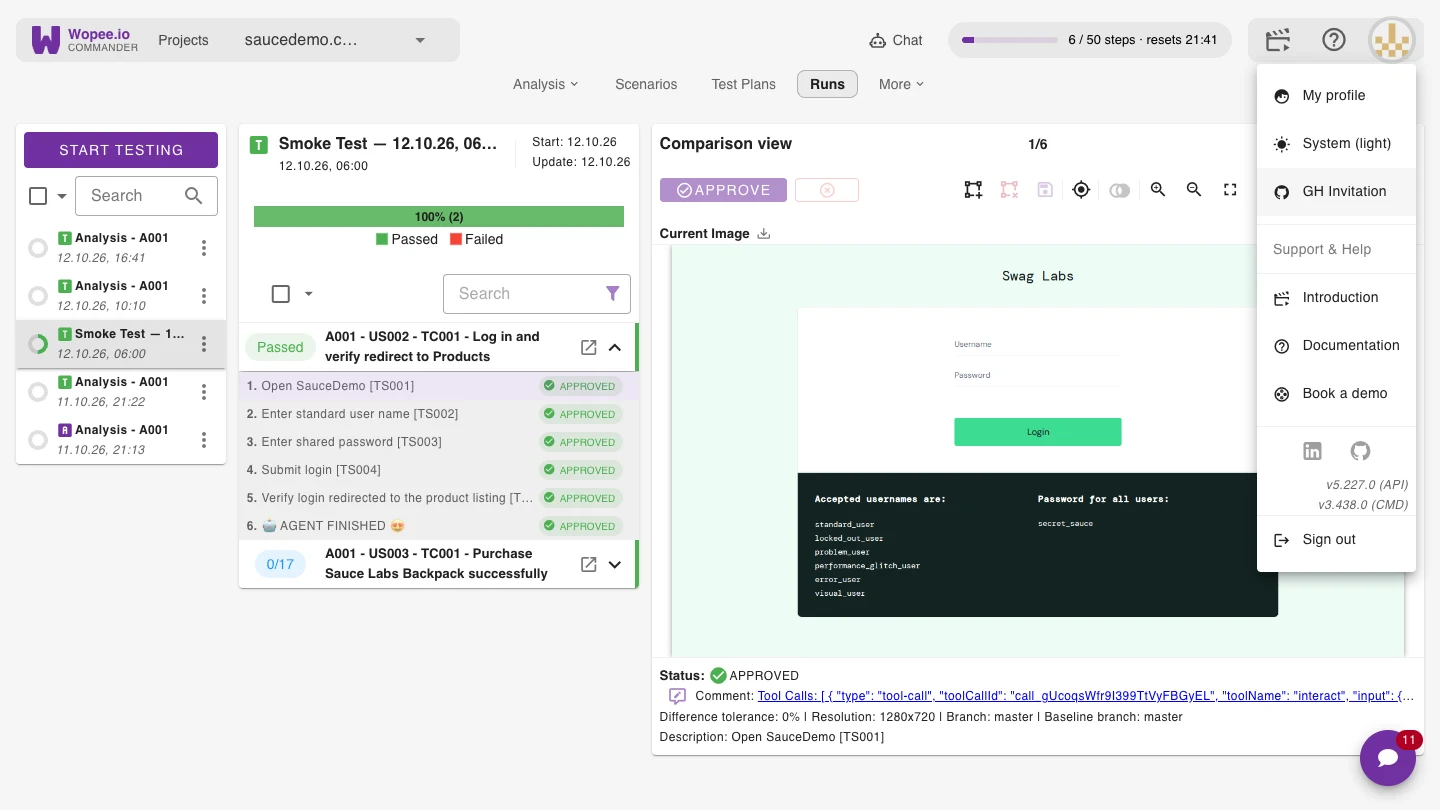
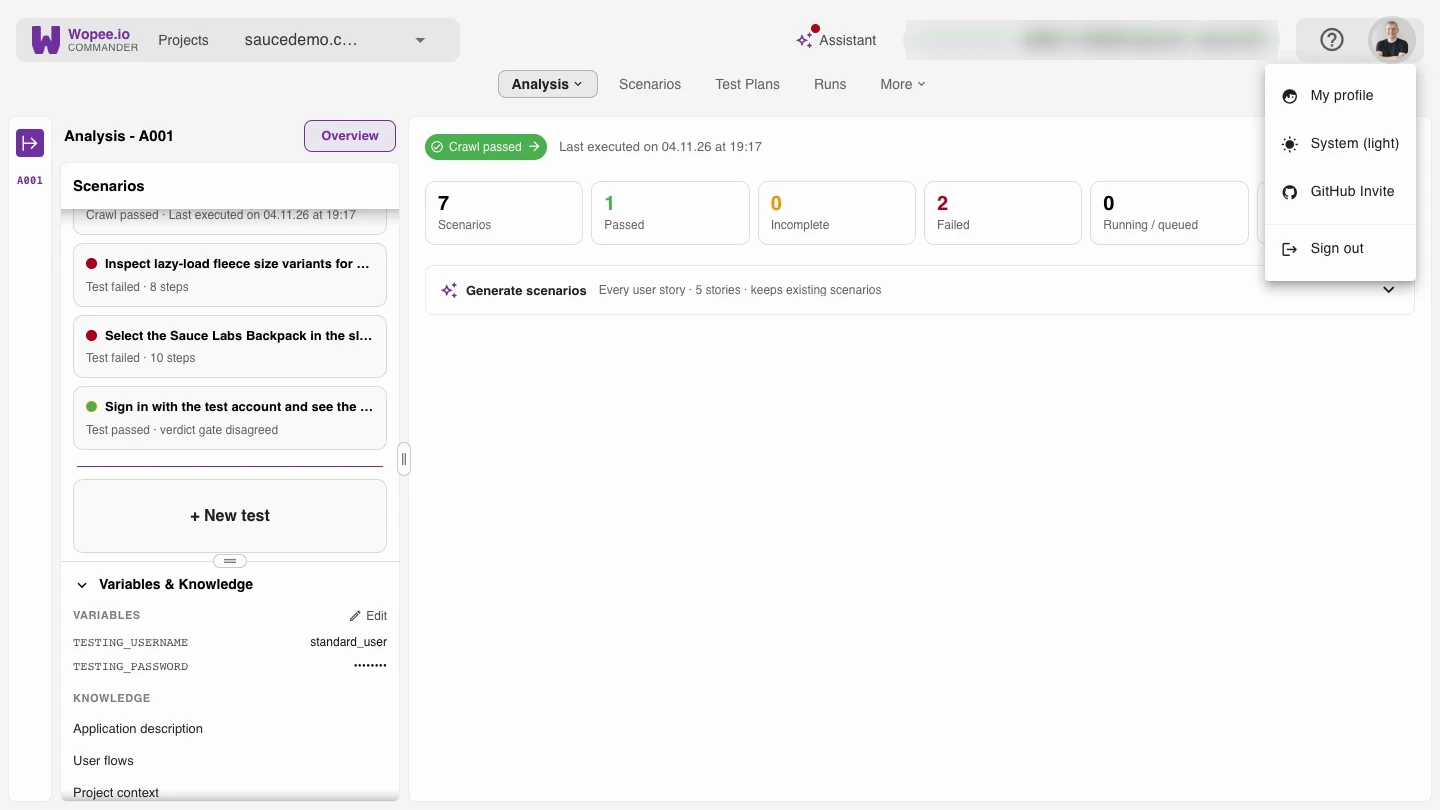
Quickstart: test account in Environment Variables, up to 4 tests auto-run, no placeholder IPs (#71)

diff --git a/docs/ai-agent.md b/docs/ai-agent.md
@@ -19,7 +19,7 @@ You land on the **Projects** page. Every app you test lives here as one project.
 
 1. Click **NEW PROJECT**.
 2. Paste the URL of your app, or pick a demo (**E-shop demo**, **Website demo** or **Banking demo**). The demos come with test instructions already filled in.
-3. Under **Test instructions**, describe in plain English what matters to you, including any test credentials. For example: _Log in with the test account, add an item to the cart, complete the purchase, and verify the "Thank you" message._ You can leave it empty and let the agent decide.
+3. Under **Test instructions**, describe in plain English what matters to you. For example: _Add an item to the cart, complete the purchase, and verify the "Thank you" message._ You can leave it empty and let the agent decide. Do not type passwords here: a test account goes in Environment Variables (see below).
 4. Click **Create project and generate tests**.
 
 ![New project dialog](img/getting-started/2026-new-project.webp){ width="1440" height="810" }
@@ -28,19 +28,23 @@ You land on the **Projects** page. Every app you test lives here as one project.
 
     The test framework (Playwright) is fixed once the project exists. Switch off **Explore the app and generate tests** to create an empty project and add your own tests first.
 
+!!! tip "Your app needs a login?"
+
+    Give the agent a test account: open **More** › **Settings** › **Environment Variables** and add `TESTING_USERNAME` and `TESTING_PASSWORD`. The agent signs in with them, and your tests use them as `${TESTING_USERNAME}` and `${TESTING_PASSWORD}`. The first Analysis starts without them, so if it stopped at your login, add the account and re-run the tests it generated before you start a new Analysis: on the free plan only your first Analysis is free of the step limit, and an Analysis uses more steps than a test run. See [Test an app behind a login](https://docs.wopee.io/first-green-test/test-behind-a-login/).
+
 ## 3. Accept the GitHub invitation
 
-Every project gets its own GitHub repository. To open it, accept the invitation: open the menu under your avatar, click **GH Invitation**, and click **Join** on GitHub.
+Every project gets its own GitHub repository, and GitHub invites you to the organization that holds it. Accept the invitation from GitHub's e-mail, or open the menu under your avatar, click **GitHub Invite**, and click **Join** on GitHub.
 
-![GH Invitation in the account menu](img/getting-started/2026-gh-invitation.webp){ width="1440" height="810" loading="lazy" }
+![GitHub Invite in the account menu](img/getting-started/2026-gh-invitation.webp){ width="1440" height="810" loading="lazy" }
 
 ## 4. Watch the agent explore
 
-The first Analysis starts right away. You see a live view of the agent's browser: it opens your app, logs in, clicks through the pages and checks what it sees. From what it saw, it writes:
+The first Analysis starts right away. You see a live view of the agent's browser: it opens your app, clicks through the pages and checks what it sees. From what it saw, it writes:
 
 - an **application description**,
 - **user flows**, written as user stories,
-- **test scenarios** for those flows, and runs every one of them, so you start with real results.
+- **test scenarios** for those flows, and runs up to 4 of them, one after another, so you start with real results. The others wait under **NOT RUN** in the scenario list; run one with its ▶ button.
 
 All of them are under **Variables & Knowledge** and in the scenario list. Edit any of them, or add instructions and regenerate.
 

diff --git a/docs/concepts/analysis-process.md b/docs/concepts/analysis-process.md
@@ -4,6 +4,10 @@ description: How Wopee.io analyzes your web app to generate automated tests. Con
 
 # Analysis Process
 
+!!! note "Screenshots from 2025"
+
+    The screenshots on this page show the 2025 analysis screen, and Commander looks different today. For the current first Analysis, see [Getting started](../ai-agent.md). A test account now goes in **More** › **Settings** › **Environment Variables** as `TESTING_USERNAME` and `TESTING_PASSWORD`.
+
 The analysis process transforms your application into a set of actionable, automated tests by systematically exploring its features, identifying user journeys, and generating reliable test cases. This ensures your app is thoroughly understood and tested, while giving you full control to guide and refine each step for maximum relevance and coverage.
 
 Below is a step-by-step overview of how your application is analyzed and how you can influence each phase.

diff --git a/docs/security/enterprise-connectivity.md b/docs/security/enterprise-connectivity.md
@@ -12,25 +12,9 @@ Connect Wopee.io to applications behind VPN, firewalls, or in secure enterprise 
 
 Allow Wopee.io cloud IPs to access your internal systems.
 
-#### Wopee.io IP Ranges
+#### Wopee.io IP Addresses
 
-**Production IPs** (to be provided by Wopee.io):
-
-```
-# Primary Wopee.io Cloud IPs
-203.0.113.0/24    # Wopee.io Cloud - Primary
-198.51.100.0/24   # Wopee.io Cloud - Secondary
-192.0.2.0/24      # Wopee.io Cloud - Backup
-
-# Regional IPs (if applicable)
-# North America: 203.0.113.0/24
-# Europe: 198.51.100.0/24
-# Asia Pacific: 192.0.2.0/24
-```
-
-!!! caution "IP Addresses"
-
-    The IP ranges above are placeholders. Contact Wopee.io support for actual IP addresses for your region.
+[Contact us](mailto:help@wopee.io) for the current egress IP addresses to allowlist.
 
 ### Option 2: Secure Tunnel (Enterprise Plan)
 
